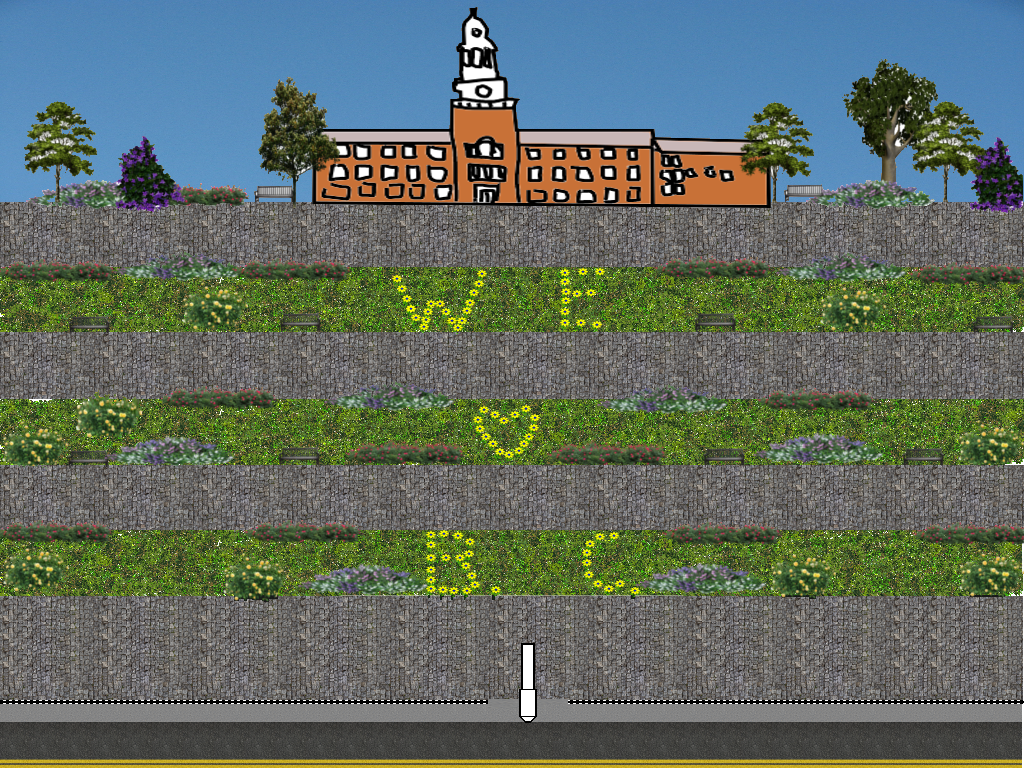
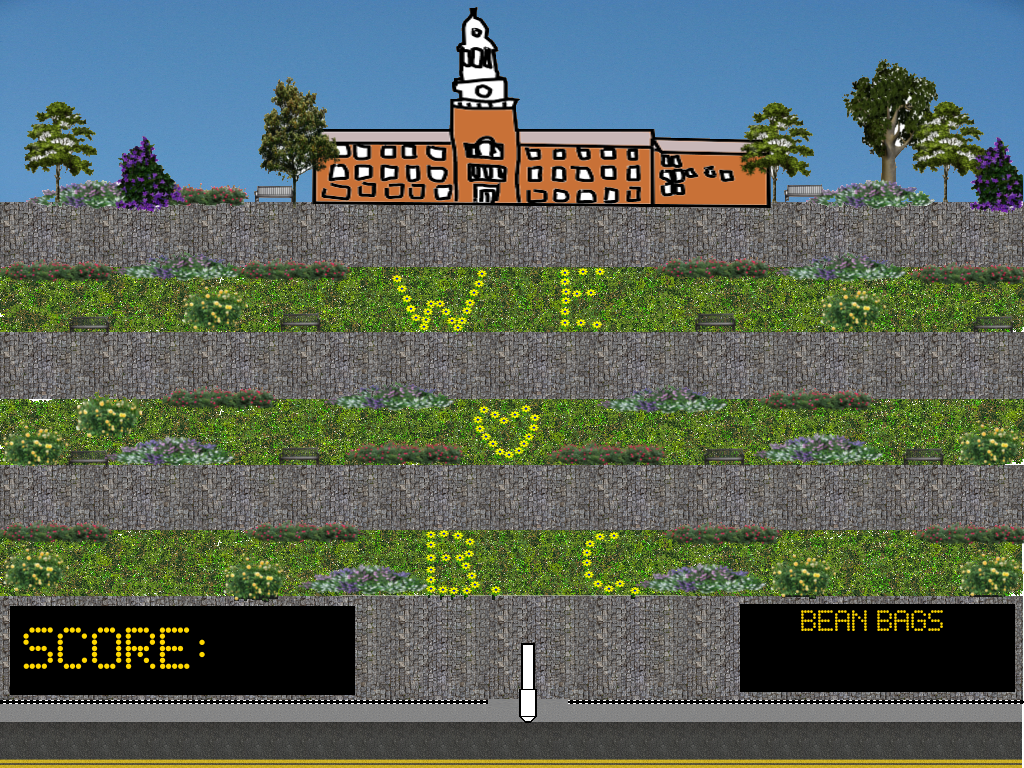
ammo has been implemented, score board and beanbag ammo added

Changed region(s): [[0.0, 0.7812, 0.3438, 0.9062], [0.7188, 0.7812, 1.0, 0.9062]]

diff --git a/SlingGame/src/game/GamePanel.java b/SlingGame/src/game/GamePanel.java
@@ -19,8 +19,10 @@ import java.util.LinkedList;
 import loaders.BufferedImageLoader;
 import loaders.MouseInput;
 import objects.BeanBag;
+import objects.BeanBagColor;
 import objects.EnemyObjects;
 import objects.PlayerObjects;
+import objects.ScoreBeanBag;
 
 /**
  * GameCanvas will load game objects, render graphics, load sound, and initiate
@@ -70,6 +72,10 @@ public class GamePanel extends Canvas implements Runnable {
 
 	private AudioPlayer sound;
 	
+	public static BeanBagColor[] colors = new BeanBagColor[20];
+	private LinkedList<ScoreBeanBag> scoreBags = new LinkedList<ScoreBeanBag>();
+	private int bagAmmo = 20;
+	
 	/**
 	 * Game initialization happens here for images, audio, loaders.
 	 */
@@ -95,12 +101,13 @@ public class GamePanel extends Canvas implements Runnable {
 		/************ IMAGES LOADED HERE END ************/
 
 		crosshair(); // loads the cursor
+		
+		randomBagArray(); //loads starting beanbags
 
 		this.addMouseListener(new MouseInput(this)); // mouse listener initiated
 
 		textures = new Textures(this); // textures from sprite are loaded
 		controller = new Controller(textures, this); // game controller initialized
-		
 
 		po = controller.getPlayerObjects(); //player objects initiated
 		eo = controller.getEnemyObjects(); //enemy objects initiated 
@@ -201,18 +208,18 @@ public class GamePanel extends Canvas implements Runnable {
 		}
 
 		Graphics g = bs.getDrawGraphics();
-		
+
 		/***** IMAGES RENDERED HERE ************/
 		g.drawImage(image, 0, 0, getWidth(), getHeight(), this);
 		g.setColor(Color.WHITE); // whitespace color
 		g.fillRect(0, 0, 1500, 1500); // whitespace for png to show the
-		
+
 		if (state == STATE.PLAY) { // school
-			
+
 			Graphics2D g2d = (Graphics2D) g;
 			// draw background
 			g.drawImage(background, 0, 0, getWidth(), getHeight(), this);
-			
+
 			controller.render(g);
 
 			/*
@@ -229,15 +236,11 @@ public class GamePanel extends Canvas implements Runnable {
 			g2d.draw(quitButton);
 		} else if (state == STATE.MENU) {
 			g.drawImage(menuBackground, 0, 0, getWidth(), getHeight(), this);
-			
+
 		}
-		
+
 		/***** IMAGES RENDERED HERE ************/
-		//Moved into the state if statement
-		//if (state == STATE.PLAY) {
-	
-		//}
-		
+
 		g.dispose(); // clean up graphic resources in the game
 		bs.show(); // display (buffer strategy)
 	}
@@ -281,7 +284,9 @@ public class GamePanel extends Canvas implements Runnable {
 			}
 
 			System.out.println("XLOC: " + e.getX() + " YLOC: " + e.getY());
-			controller.addObject(new BeanBag(524, 645, textures, e.getX(), e.getY()));
+			controller.addObject(new BeanBag(524, 645, textures, e.getX(), e.getY(),colors[20-bagAmmo]));
+			controller.removeObject();;
+			bagAmmo--;
 		}
 		
 		if (state == STATE.MENU) {
@@ -341,5 +346,29 @@ public class GamePanel extends Canvas implements Runnable {
 		Cursor crosshair = toolkit.createCustomCursor(img, point, "crosshair");
 
 		setCursor(crosshair);
+	}
+	
+	public void randomBagArray() {
+		for (int i = 0; i < 20; i++) {
+			colors[i] = BeanBagColor.randomBeanBag();
+		}
+	}
+	
+	public void drawBagArray() {
+
+		int startXline1 = 764;
+		int startYline1 = 647;
+
+		int startXline2 = 764;
+		int startYline2 = 673;
+
+		for (int i = 0; i < 10; i++) {
+			scoreBags.add(new ScoreBeanBag(startXline1, startYline1, textures, colors[i]));
+			startXline1 += 25;
+		}
+		for (int i = 10; i < 20; i++) {
+			scoreBags.add(new ScoreBeanBag(startXline2, startYline2, textures, colors[i]));
+			startXline2 += 25;
+		}
 	}
 }

diff --git a/SlingGame/src/objects/ScoreBeanBag.java b/SlingGame/src/objects/ScoreBeanBag.java
@@ -1,5 +1,79 @@
 package objects;
 
-public class ScoreBeanBag {
+import java.awt.Graphics;
+import java.awt.Rectangle;
 
+import game.Textures;
+/**
+ * The BeanBag class will describe the bean bags.
+ * Details such as (x,y) location can be set as well as the texture being used
+ * Movement and rendering will also be described here
+ *
+ */
+public class ScoreBeanBag extends GameObject implements PlayerObjects{
+	
+	//(x,y) coordinate of beanbag on the GamePanel
+	private Textures texture;
+	private BeanBagColor color;
+
+	/**
+	 * Constructor for a BeanBag
+	 * @param x - location within x coordinate
+	 * @param y - location within y coordinate
+	 * @param texture - image loaded for beanbag
+	 * @param color - beanbag color
+	 */
+	public ScoreBeanBag(double x, double y, Textures texture, BeanBagColor color) {
+		super(x, y);
+		this.texture = texture;
+		this.color = color;
+	}
+	
+	/**
+	 * The tick method dictates beanbag movement in the x or y direction.
+	 * Depending on the movement that is added per tick it will also determine movement speed
+	 */
+	public void tick() {
+		x+=0;
+
+	}
+
+	public void render(Graphics g) {
+
+		if(this.color==BeanBagColor.RED)
+			g.drawImage(texture.beanbagRED, (int) x, (int) y, null);
+		
+		else if(this.color==BeanBagColor.PURPLE)
+			g.drawImage(texture.beanbagPURPLE, (int) x, (int) y, null);
+		
+		else if(this.color==BeanBagColor.PINK)
+			g.drawImage(texture.beanbagPINK, (int) x, (int) y, null);
+		
+		else if(this.color==BeanBagColor.GREEN)
+			g.drawImage(texture.beanbagGREEN, (int) x, (int) y, null);
+		
+		else if(this.color==BeanBagColor.BLUE)
+			g.drawImage(texture.beanbagBLUE, (int) x, (int) y, null);
+				
+	}
+
+	public double getY() {
+		return y;
+	}
+	@Override
+	public double getX() {
+		return x;
+	}
+	
+	public BeanBagColor getColor(){
+		return color;
+	}
+	
+	public void setColor(BeanBagColor color) {
+		this.color = color;
+	}
+	
+	public Rectangle getBounds(){
+		return new Rectangle((int)x,(int)y,20,20);
+	}
 }

diff --git a/SlingGame/src/game/Textures.java b/SlingGame/src/game/Textures.java
@@ -22,7 +22,13 @@ public class Textures {
 	public BufferedImage[] studentF = new BufferedImage[14]; // walk forward
 	public BufferedImage[] studentB = new BufferedImage[14]; // walk backward
 	
-	public BufferedImage canon, beanbag;
+	public BufferedImage canon;
+	
+	public BufferedImage beanbagRED;
+	public BufferedImage beanbagPURPLE;
+	public BufferedImage beanbagPINK;
+	public BufferedImage beanbagGREEN;
+	public BufferedImage beanbagBLUE;
 
 	public Textures(GamePanel game) {
 		ss = new SpriteSheet(game.getSpriteSheet());
@@ -34,7 +40,13 @@ public class Textures {
 	 */
 	private void getTextures() {
 		// col,row,size
-		beanbag = ss.grabImage(1, 19, 20, 20);
+			
+		beanbagGREEN = ss.grabImage(1, 19, 20, 20);
+		beanbagPINK = ss.grabImage(2, 19, 20, 20);
+		beanbagBLUE = ss.grabImage(3, 19, 20, 20);
+		beanbagRED = ss.grabImage(4, 19, 20, 20);
+		beanbagPURPLE = ss.grabImage(5, 19, 20, 20);
+		
 
 		for (int i = 0, j = 1; i < 14; i++, j++) {
 

diff --git a/SlingGame/src/objects/BeanBagColor.java b/SlingGame/src/objects/BeanBagColor.java
@@ -1,11 +1,21 @@
 package objects;
 
+import java.util.Arrays;
+import java.util.Collections;
+import java.util.List;
+import java.util.Random;
+
 public enum BeanBagColor {
-	
-	RED,
-	PURPLE,
-	PINK,
-	GREEN,
-	BLUE,
+
+	RED, PURPLE, PINK, GREEN, BLUE;
+
+	private static final List<BeanBagColor> VALUES = Collections.unmodifiableList(Arrays.asList(values()));
+
+	private static final int SIZE = VALUES.size();
+	private static final Random RANDOM = new Random();
+
+	public static BeanBagColor randomBeanBag() {
+		return VALUES.get(RANDOM.nextInt(SIZE));
+	}
 
 }

diff --git a/SlingGame/src/game/AudioPlayer.java b/SlingGame/src/game/AudioPlayer.java
@@ -55,6 +55,6 @@ public class AudioPlayer {
 		}
 		bgMusic.loop(Clip.LOOP_CONTINUOUSLY);
 		FloatControl gainControl = (FloatControl) bgMusic.getControl(FloatControl.Type.MASTER_GAIN);
-		gainControl.setValue(-20.0f);
+		gainControl.setValue(-25.0f);
 	}
 }

diff --git a/SlingGame/src/objects/Dean.java b/SlingGame/src/objects/Dean.java
@@ -108,7 +108,6 @@ public class Dean extends GameObject implements EnemyObjects {
 
 	@Override
 	public int getScore() {
-		// TODO Auto-generated method stub
 		return 0;
 	}
 	
